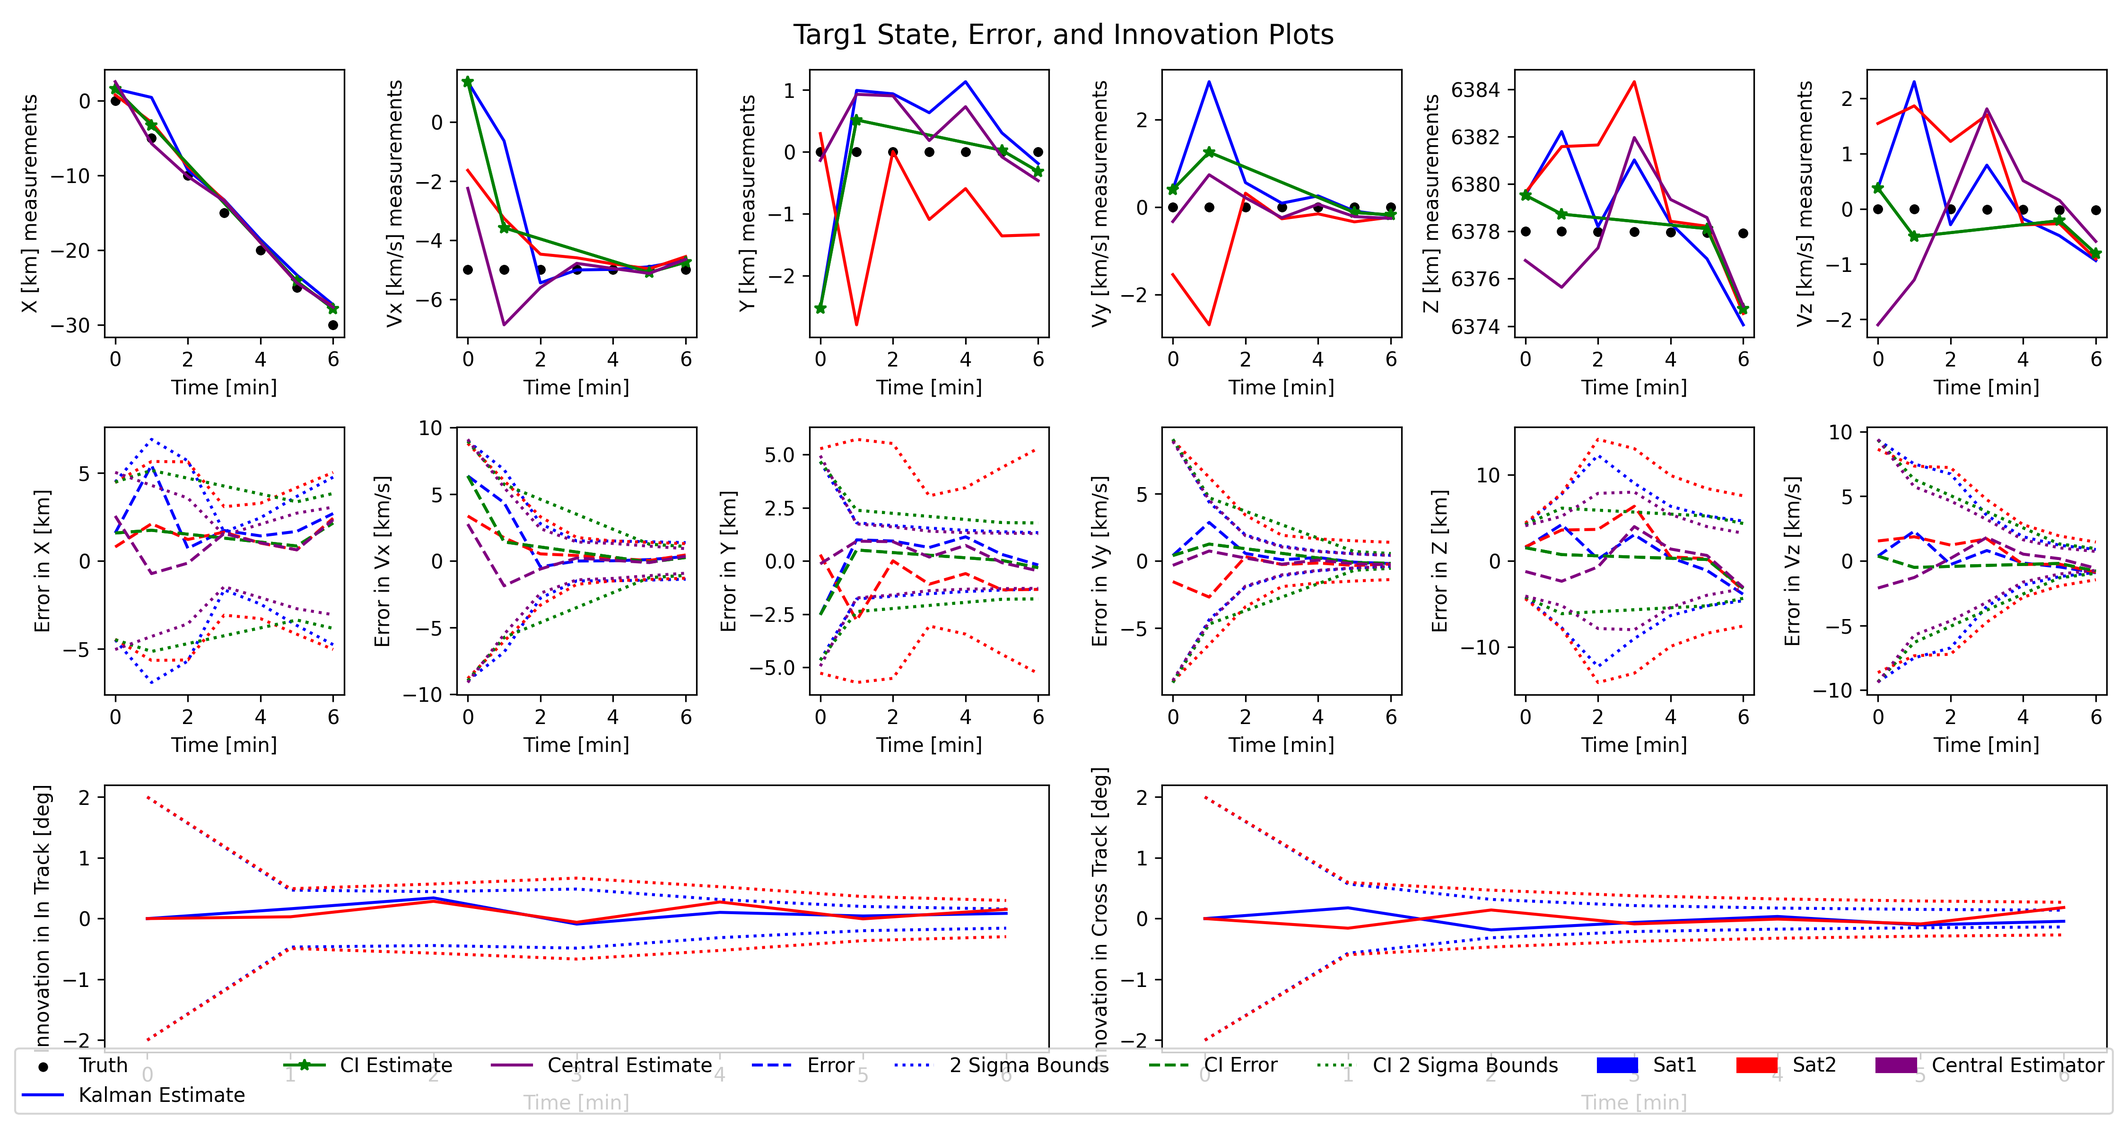
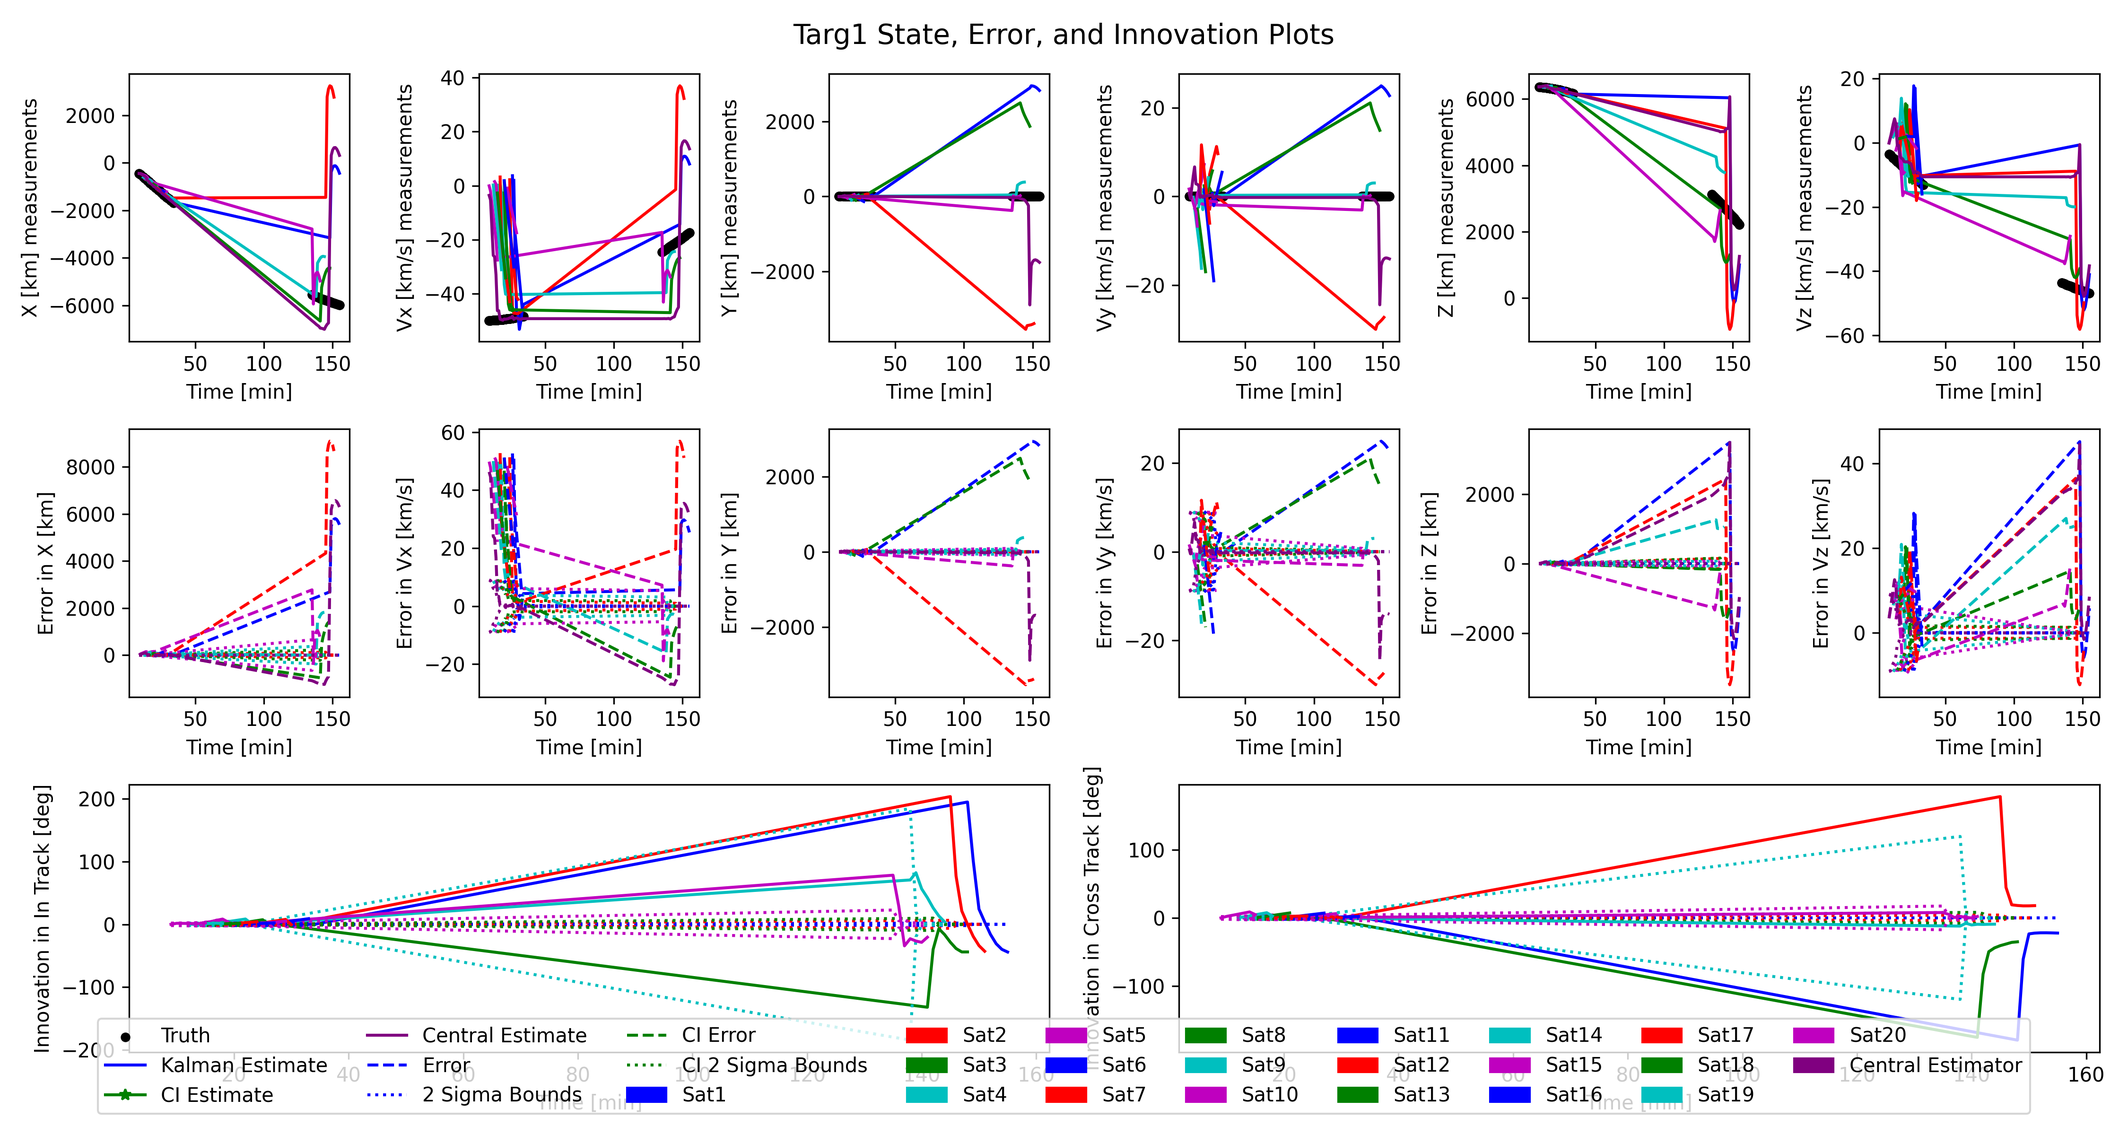
Added Test Case

diff --git a/phase1/main.py b/phase1/main.py
@@ -46,6 +46,161 @@ def create_environment():
     return environment(sats, targs, comms_network, central)
 
 
+
+def testCase_environment():
+# Test Case Consists of:
+#   Four Constellations in Polar Orbits at different right ascension of ascending node
+#   Each Constellation has 5 satellites separated by 5 degrees in true anomaly
+#       Each Satellite one sensors type a,b,c,d,e 
+#       Each satellite tracks all targets
+#       Each Satellite has a local estimator
+#       Each Satellite has a data fusion algorithm
+#
+#   Five Targets at different locations
+#       Target 1: 90 degrees latitude, 0 degrees longitude, 0 altitude, speed 5 m/s, heading 0 degrees, constant altitude 
+#       Target 2: 0 degrees latitude, 0 degrees longitude, 200 altitude, speed 100 m/s, heading 90 degrees, constant altitude
+#       Target 3: 45 degrees latitude, 45 degrees longitude, 100 altitude, speed 50 m/s, heading 45 degrees, constant altitude
+#       Target 4: -45 degrees latitude, 45 degrees longitude, 0 altitude, speed 20 m/s, heading -45 degrees, constant altitude
+#       Target 5: -90 degrees latitude, 45 degrees longitude, 0 altitude, speed 30 m/s, heading 90 degrees, constant altitude
+#
+#   Communication Network:
+#       Each satellite can communicate with 3 nearest neighbors
+#       Maximum range of communication is 5000 km
+#       Minimum range of communication is 500 km
+    
+    
+    # Define 5 sensor models with constant FOV and different bearings error matrixes:
+    bearings_Error_matrix = np.array([[0.001,0.001], [0.1, 0.1], [0.2, 0.2], [0.5, 0.5], [1, 1] ])
+    
+    sensor1 = sensor(name = 'Sensor A', fov = 115, bearingsError = bearings_Error_matrix[0])
+    sensor2 = sensor(name = 'Sensor B', fov = 115, bearingsError = bearings_Error_matrix[1])
+    sensor3 = sensor(name = 'Sensor C', fov = 115, bearingsError = bearings_Error_matrix[2])
+    sensor4 = sensor(name = 'Sensor D', fov = 115, bearingsError = bearings_Error_matrix[3])
+    sensor5 = sensor(name = 'Sensor E', fov = 115, bearingsError = bearings_Error_matrix[4])
+    
+    sensor6 = sensor(name = 'Sensor A', fov = 115, bearingsError = bearings_Error_matrix[0])
+    sensor7 = sensor(name = 'Sensor B', fov = 115, bearingsError = bearings_Error_matrix[1])
+    sensor8 = sensor(name = 'Sensor C', fov = 115, bearingsError = bearings_Error_matrix[2])
+    sensor9 = sensor(name = 'Sensor D', fov = 115, bearingsError = bearings_Error_matrix[3])
+    sensor10 = sensor(name = 'Sensor E', fov = 115, bearingsError = bearings_Error_matrix[4])
+    
+    sensor11 = sensor(name = 'Sensor A', fov = 115, bearingsError = bearings_Error_matrix[0])
+    sensor12 = sensor(name = 'Sensor B', fov = 115, bearingsError = bearings_Error_matrix[1])
+    sensor13 = sensor(name = 'Sensor C', fov = 115, bearingsError = bearings_Error_matrix[2])
+    sensor14 = sensor(name = 'Sensor D', fov = 115, bearingsError = bearings_Error_matrix[3])
+    sensor15 = sensor(name = 'Sensor E', fov = 115, bearingsError = bearings_Error_matrix[4])
+    
+    sensor16 = sensor(name = 'Sensor A', fov = 115, bearingsError = bearings_Error_matrix[0])
+    sensor17 = sensor(name = 'Sensor B', fov = 115, bearingsError = bearings_Error_matrix[1])
+    sensor18 = sensor(name = 'Sensor C', fov = 115, bearingsError = bearings_Error_matrix[2])
+    sensor19 = sensor(name = 'Sensor D', fov = 115, bearingsError = bearings_Error_matrix[3])
+    sensor20 = sensor(name = 'Sensor E', fov = 115, bearingsError = bearings_Error_matrix[4])
+
+    # Define targets for the satellites to track:
+    targetIDs = [1,2,3,4,5]
+
+    # Define local estimators:
+    local1 = localEstimator(targetIDs = targetIDs)
+    local2 = localEstimator(targetIDs = targetIDs)
+    local3 = localEstimator(targetIDs = targetIDs)
+    local4 = localEstimator(targetIDs = targetIDs)
+    local5 = localEstimator(targetIDs = targetIDs)
+    
+    local6 = localEstimator(targetIDs = targetIDs)
+    local7 = localEstimator(targetIDs = targetIDs)
+    local8 = localEstimator(targetIDs = targetIDs)
+    local9 = localEstimator(targetIDs = targetIDs)
+    local10 = localEstimator(targetIDs = targetIDs)
+    
+    # Define local estimators:
+    local11 = localEstimator(targetIDs = targetIDs)
+    local12 = localEstimator(targetIDs = targetIDs)
+    local13 = localEstimator(targetIDs = targetIDs)
+    local14 = localEstimator(targetIDs = targetIDs)
+    local15 = localEstimator(targetIDs = targetIDs)
+    
+    local16 = localEstimator(targetIDs = targetIDs)
+    local17 = localEstimator(targetIDs = targetIDs)
+    local18 = localEstimator(targetIDs = targetIDs)
+    local19 = localEstimator(targetIDs = targetIDs)
+    local20 = localEstimator(targetIDs = targetIDs)
+    
+    
+    central = centralEstimator(targetIDs = targetIDs)
+
+    # Define the Data Fusion Algorithm
+    dataFusionAlg1 = dataFusion(targetIDs = targetIDs)
+    dataFusionAlg2 = dataFusion(targetIDs = targetIDs)
+    dataFusionAlg3 = dataFusion(targetIDs = targetIDs)
+    dataFusionAlg4 = dataFusion(targetIDs = targetIDs)
+    dataFusionAlg5 = dataFusion(targetIDs = targetIDs)
+    
+    dataFusionAlg6 = dataFusion(targetIDs = targetIDs)
+    dataFusionAlg7 = dataFusion(targetIDs = targetIDs)
+    dataFusionAlg8 = dataFusion(targetIDs = targetIDs)
+    dataFusionAlg9 = dataFusion(targetIDs = targetIDs)
+    dataFusionAlg10 = dataFusion(targetIDs = targetIDs)
+    
+    dataFusionAlg11 = dataFusion(targetIDs = targetIDs)
+    dataFusionAlg12 = dataFusion(targetIDs = targetIDs)
+    dataFusionAlg13 = dataFusion(targetIDs = targetIDs)
+    dataFusionAlg14 = dataFusion(targetIDs = targetIDs)
+    dataFusionAlg15 = dataFusion(targetIDs = targetIDs)
+    
+    dataFusionAlg16 = dataFusion(targetIDs = targetIDs)
+    dataFusionAlg17 = dataFusion(targetIDs = targetIDs)
+    dataFusionAlg18 = dataFusion(targetIDs = targetIDs)
+    dataFusionAlg19 = dataFusion(targetIDs = targetIDs)
+    dataFusionAlg20 = dataFusion(targetIDs = targetIDs)
+    
+    # Define the satellites:
+    # Constellation 1: Polar Orbit at 0 degrees right ascension of ascending node
+    sat1 = satellite(name = 'Sat1', sensor = sensor1, targetIDs=targetIDs, estimator = local1, dataFusion=dataFusionAlg1, a = Earth.R + 1000 * u.km, ecc = 0, inc = 90, raan = 0, argp = 0, nu = 0, color='b')
+    sat2 = satellite(name = 'Sat2', sensor = sensor2, targetIDs=targetIDs, estimator = local2, dataFusion=dataFusionAlg2, a = Earth.R + 1000 * u.km, ecc = 0, inc = 90, raan = 0, argp = 10, nu = 0, color='r')
+    sat3 = satellite(name = 'Sat3', sensor = sensor3, targetIDs=targetIDs, estimator = local3, dataFusion=dataFusionAlg3, a = Earth.R + 1000 * u.km, ecc = 0, inc = 90, raan = 0, argp = 20, nu = 0, color='g')
+    sat4 = satellite(name = 'Sat4', sensor = sensor4, targetIDs=targetIDs, estimator = local4, dataFusion=dataFusionAlg4, a = Earth.R + 1000 * u.km, ecc = 0, inc = 90, raan = 0, argp = 30, nu = 0, color='c')
+    sat5 = satellite(name = 'Sat5', sensor = sensor5, targetIDs=targetIDs, estimator = local5, dataFusion=dataFusionAlg5, a = Earth.R + 1000 * u.km, ecc = 0, inc = 90, raan = 0, argp = 40, nu = 0, color='m')
+    
+    # Constellation 2: Polar Orbit at 30 degrees right ascension of ascending node
+    sat6 = satellite(name = 'Sat6', sensor = sensor6, targetIDs=targetIDs, estimator = local6, dataFusion=dataFusionAlg6, a = Earth.R + 1000 * u.km, ecc = 0, inc = 90, raan = 30, argp = 0, nu = 0, color='b')
+    sat7 = satellite(name = 'Sat7', sensor = sensor7, targetIDs=targetIDs, estimator = local7, dataFusion=dataFusionAlg7, a = Earth.R + 1000 * u.km, ecc = 0, inc = 90, raan = 30, argp = 10, nu = 0, color='r')
+    sat8 = satellite(name = 'Sat8', sensor = sensor8, targetIDs=targetIDs, estimator = local8, dataFusion=dataFusionAlg8, a = Earth.R + 1000 * u.km, ecc = 0, inc = 90, raan = 30, argp = 20, nu = 0, color='g')
+    sat9 = satellite(name = 'Sat9', sensor = sensor9, targetIDs=targetIDs, estimator = local9, dataFusion=dataFusionAlg9, a = Earth.R + 1000 * u.km, ecc = 0, inc = 90, raan = 30, argp = 30, nu = 0, color='c')
+    sat10 = satellite(name = 'Sat10', sensor = sensor10, targetIDs=targetIDs, estimator = local10, dataFusion=dataFusionAlg10, a = Earth.R + 1000 * u.km, ecc = 0, inc = 90, raan = 30, argp = 40, nu = 0, color='m')
+    
+    # Constellation 3: Polar Orbit at 60 degrees right ascension of ascending node
+    sat11 = satellite(name = 'Sat11', sensor = sensor11, targetIDs=targetIDs, estimator = local11, dataFusion=dataFusionAlg11, a = Earth.R + 1000 * u.km, ecc = 0, inc = 90, raan = 60, argp = 0, nu = -30, color='b')
+    sat12 = satellite(name = 'Sat12', sensor = sensor12, targetIDs=targetIDs, estimator = local12, dataFusion=dataFusionAlg12, a = Earth.R + 1000 * u.km, ecc = 0, inc = 90, raan = 60, argp = 10, nu = -30, color='r')
+    sat13 = satellite(name = 'Sat13', sensor = sensor13, targetIDs=targetIDs, estimator = local13, dataFusion=dataFusionAlg13, a = Earth.R + 1000 * u.km, ecc = 0, inc = 90, raan = 60, argp = 20, nu = -30, color='g')
+    sat14 = satellite(name = 'Sat14', sensor = sensor14, targetIDs=targetIDs, estimator = local14, dataFusion=dataFusionAlg14, a = Earth.R + 1000 * u.km, ecc = 0, inc = 90, raan = 60, argp = 30, nu = -30, color='c')
+    sat15 = satellite(name = 'Sat15', sensor = sensor15, targetIDs=targetIDs, estimator = local15, dataFusion=dataFusionAlg15, a = Earth.R + 1000 * u.km, ecc = 0, inc = 90, raan = 60, argp = 40, nu = -30, color='m')
+    
+    # Constellation 4: Polar Orbit at 90 degrees right ascension of ascending node
+    sat16 = satellite(name = 'Sat16', sensor = sensor16, targetIDs=targetIDs, estimator = local16, dataFusion=dataFusionAlg16, a = Earth.R + 1000 * u.km, ecc = 0, inc = 90, raan = 90, argp = 0, nu = 10, color='b')
+    sat17 = satellite(name = 'Sat17', sensor = sensor17, targetIDs=targetIDs, estimator = local17, dataFusion=dataFusionAlg17, a = Earth.R + 1000 * u.km, ecc = 0, inc = 90, raan = 90, argp = 10, nu = 10, color='r')
+    sat18 = satellite(name = 'Sat18', sensor = sensor18, targetIDs=targetIDs, estimator = local18, dataFusion=dataFusionAlg18, a = Earth.R + 1000 * u.km, ecc = 0, inc = 90, raan = 90, argp = 20, nu = 10, color='g')
+    sat19 = satellite(name = 'Sat19', sensor = sensor19, targetIDs=targetIDs, estimator = local19, dataFusion=dataFusionAlg19, a = Earth.R + 1000 * u.km, ecc = 0, inc = 90, raan = 90, argp = 30, nu = 10, color='c')
+    sat20 = satellite(name = 'Sat20', sensor = sensor20, targetIDs=targetIDs, estimator = local20, dataFusion=dataFusionAlg20, a = Earth.R + 1000 * u.km, ecc = 0, inc = 90, raan = 90, argp = 40, nu = 10, color='m')
+    
+    sats = [sat1, sat2, sat3, sat4, sat5, sat6, sat7, sat8, sat9, sat10, sat11, sat12, sat13, sat14, sat15, sat16, sat17, sat18, sat19, sat20]
+
+    # Define the target objects:
+    targ1 = target(name = 'Targ1', targetID=1, cords = np.array([90,0,0]), heading=0, speed=50, climbrate = 0, color = 'k')
+    targ2 = target(name = 'Targ2', targetID=2, cords = np.array([45,15,200]), heading=0, speed=50, climbrate = 0, color = 'r')
+    targ3 = target(name = 'Targ3', targetID=3, cords = np.array([0,30,100]), heading=0, speed=50, climbrate = 0, color = 'g')
+    targ4 = target(name = 'Targ4', targetID=4, cords = np.array([-45,60,50]), heading=0, speed=50, climbrate = 0, color = 'c')
+    targ5 = target(name = 'Targ5', targetID=5, cords = np.array([-90,90,0]), heading=0, speed=50, climbrate = 0, color = 'm')
+    
+    
+    targs = [targ1, targ2, targ3, targ4, targ5]
+
+    # Define the communication network:
+    comms_network = comms(sats, maxNeighbors = 3, maxRange = 5000*u.km, minRange = 500*u.km, displayStruct = True)
+
+    # Create and return an environment instance:
+    return environment(sats, targs, comms_network, central)
+
+
 # Plot the NEES and NIS results:
 def plot_NEES_NIS(simData):
 
@@ -110,84 +265,24 @@ def plot_NEES_NIS(simData):
 
 if __name__ == "__main__":
     # Vector of time for simulation:
-    time_vec = np.linspace(0, 10, 11) * u.minute
+    time_vec = np.linspace(0, 240, 241) * u.minute
 
+    env = testCase_environment()
+    env.simulate(time_vec, savePlot = True, saveName = str(1), showSim = True)
+    
     # Number of simulations:
-    numSims = 1
-    simData = defaultdict(dict)
-    for i in range(numSims):
-        print(f'Simulation {i + 1} out of {numSims}')
-        # Create a new environment instance for each simulation run:
-        env = create_environment()
-        # Simulate the satellites through the vector of time:
-        simData[i] = env.simulate(time_vec, savePlot = True, saveName = str(i + 1), showSim = True)
+    # numSims = 1
+    # simData = defaultdict(dict)
+    # for i in range(numSims):
+    #     print(f'Simulation {i + 1} out of {numSims}')
+    #     # Create a new environment instance for each simulation run:
+    #     env = create_environment()
+    #     # Simulate the satellites through the vector of time:
+    #     simData[i] = env.simulate(time_vec, savePlot = True, saveName = str(i + 1), showSim = True)
 
         
     # Plot the NEES and NIS results:
     #plot_NEES_NIS(simData)
     
-
-# ### CLUSTER SIM BELOW:
-
-# # DEFINE THE SATELLITE OBJECTS:
-
-#     # Define a sensor model:
-#     sens1_1 = sensor(name = 'Sensor 1.1', fov = 115, bearingsError = np.array([0.5, 0.5]), rangeError = 0.5, detectChance= 0.05, resolution = 720)
-#     sens1_2 = sensor(name = 'Sensor 1.2', fov = 115, bearingsError = np.array([0.5, 0.5]), rangeError = 0.5, detectChance= 0.05, resolution = 720)
-#     sens1_3 = sensor(name = 'Sensor 1.3', fov = 115, bearingsError = np.array([0.5, 0.5]), rangeError = 0.5, detectChance= 0.05, resolution = 720)
-#     sens1_4 = sensor(name = 'Sensor 1.4', fov = 115, bearingsError = np.array([0.5, 0.5]), rangeError = 0.5, detectChance= 0.05, resolution = 720)
-#     sens2_1 = sensor(name = 'Sensor 2.1', fov = 100, bearingsError = np.array([0.5, 0.5]), rangeError = 0.5, detectChance= 0.05, resolution = 720)
-#     sens2_2 = sensor(name = 'Sensor 2.2', fov = 100, bearingsError = np.array([0.5, 0.5]), rangeError = 0.5, detectChance= 0.05, resolution = 720)
-#     sens2_3 = sensor(name = 'Sensor 2.3', fov = 100, bearingsError = np.array([0.5, 0.5]), rangeError = 0.5, detectChance= 0.05, resolution = 720)
-#     sens2_4 = sensor(name = 'Sensor 2.4', fov = 100, bearingsError = np.array([0.5, 0.5]), rangeError = 0.5, detectChance= 0.05, resolution = 720)
+    env.render_gif("sim.gif", fps=5)
     
-#     # Define targets for the satellites to track:
-#     # TODO: should we just make the satellite track any target it can see?
-#     targetIDs = [1]
-
-
-#     # Define local estimators:
-#     local1_1 = localEstimator(targetIDs = targetIDs)
-#     local1_2 = localEstimator(targetIDs = targetIDs)
-#     local1_3 = localEstimator(targetIDs = targetIDs)
-#     local1_4 = localEstimator(targetIDs = targetIDs)
-    
-#     local2_1 = localEstimator(targetIDs = targetIDs)
-#     local2_2 = localEstimator(targetIDs = targetIDs)
-#     local2_3 = localEstimator(targetIDs = targetIDs)
-#     local2_4 = localEstimator(targetIDs = targetIDs)
-
-#     # Central Estimator:
-#     central = centralEstimator(targetIDs = targetIDs) 
-    
-#     ## Cluster 1: Polar orbits:
-#     sat1_1 = satellite(name = 'Sat1', sensor = sens1_1, targetIDs=targetIDs, estimator = local1_1, a = Earth.R + 1000 * u.km, ecc = 0, inc = 90, raan = -45, argp = 0, nu = 0, color='b')
-#     sat1_2 = satellite(name = 'Sat2', sensor = sens1_2, targetIDs=targetIDs, estimator = local1_2, a = Earth.R + 1000 * u.km, ecc = 0, inc = 90, raan = -45, argp = 20, nu = 0, color='b')
-#     sat1_3 = satellite(name = 'Sat3', sensor = sens1_3, targetIDs=targetIDs, estimator = local1_3, a = Earth.R + 1000 * u.km, ecc = 0, inc = 90, raan = -45, argp = 40, nu = 0, color='b')
-#     sat1_4 = satellite(name = 'Sat4', sensor = sens1_4, targetIDs=targetIDs, estimator = local1_4, a = Earth.R + 1000 * u.km, ecc = 0, inc = 90, raan = -45, argp = 60, nu = 0, color='b')
-
-#     ## Cluster 2: Equatorial orbits:
-#     sat2_1 = satellite(name = 'Sat5', sensor = sens2_1, targetIDs=targetIDs, estimator = local2_1, a = Earth.R + 1000 * u.km, ecc = 0, inc = 0, raan = 0, argp = -180, nu = 0, color='r')
-#     sat2_2 = satellite(name = 'Sat6', sensor = sens2_2, targetIDs=targetIDs, estimator = local2_2, a = Earth.R + 1000 * u.km, ecc = 0, inc = 0, raan = 0, argp = -160, nu = 0, color='r')
-#     sat2_3 = satellite(name = 'Sat7', sensor = sens2_3, targetIDs=targetIDs, estimator = local2_3, a = Earth.R + 1000 * u.km, ecc = 0, inc = 0, raan = 0, argp = -140, nu = 0, color='r')
-#     sat2_4 = satellite(name = 'Sat8', sensor = sens2_4, targetIDs=targetIDs, estimator = local2_4, a = Earth.R + 1000 * u.km, ecc = 0, inc = 0, raan = 0, argp = -120, nu = 0, color='r')
-    
-#     sats = [sat1_1, sat1_2, sat1_3, sat1_4, sat2_1, sat2_2, sat2_3, sat2_4]
-
-# # DEFINE THE TARGET OBJECTS:
-#     targ1 = target(name = 'Targ1', targetID=1, r = np.array([6378, 0, 0, 0, 0, 0]),color = 'k')
-     
-#     targs = [targ1]
-
-# # Define the communication network:
-#     comms = comms(sats, range = 5000 * u.km, displayStruct = True)
-
-# # Create an environment instance:
-#     env = environment(sats, targs, comms, central)
-
-# # Simulate the satellites through a vector of time:
-#     time_vec = np.linspace(0, 50, 51) * u.minute
-#     env.simulate(time_vec, display = True)
-
-# # Save the gif:
-#     env.render_gif(fileName = 'satellite_simulation.gif', fps = 5)

diff --git a/phase1/environmentClass.py b/phase1/environmentClass.py
@@ -62,7 +62,7 @@ class environment:
             if savePlot:
             # Update the plot environment
                 self.plot()
-                self.convert_imgs
+                self.convert_imgs()
                 if showSim:
                     plt.pause(pause_step)
                     plt.draw()
@@ -115,15 +115,15 @@ class environment:
             
         # Check if other satellites collected information on same target -> do data fusion
         CI_threshold = 1
-        if self.comms.displayStruct:
-            for sat in self.sats:
-                for sat2 in self.sats:
-                    if sat != sat2:
-                        if self.comms.G.has_edge(sat, sat2):
-                            for targetID in sat.targetIDs:
-                                if targetID in sat2.targetIDs:
-                                    if any(collectedFlag == 1): # TODO: if either satellite collected data or if threshold is met
-                                        sat.dataFusion.covariance_intersection(sat, sat2, targetID, time_val)                                    
+        # if self.comms.displayStruct:
+        #     for sat in self.sats:
+        #         for sat2 in self.sats:
+        #             if sat != sat2:
+        #                 if self.comms.G.has_edge(sat, sat2):
+        #                     for targetID in sat.targetIDs:
+        #                         if targetID in sat2.targetIDs:
+        #                             if any(collectedFlag == 1): # TODO: if either satellite collected data or if threshold is met
+        #                                 sat.dataFusion.covariance_intersection(sat, sat2, targetID, time_val)                                    
 
         # Update Central Estimator on all targets if measurments were collected
         if any(collectedFlag == 1) and self.centralEstimator:
@@ -156,6 +156,7 @@ class environment:
         # Plot the visible projection of the satellite sensor
             points = sat.sensor.projBox
             self.ax.scatter(points[:, 0], points[:, 1], points[:, 2], color = sat.color, marker = 'x')
+            
             box = np.array([points[0], points[3], points[1], points[2], points[0]])
             self.ax.add_collection3d(Poly3DCollection([box], facecolors=sat.color, linewidths=1, edgecolors=sat.color, alpha=.1))
 
